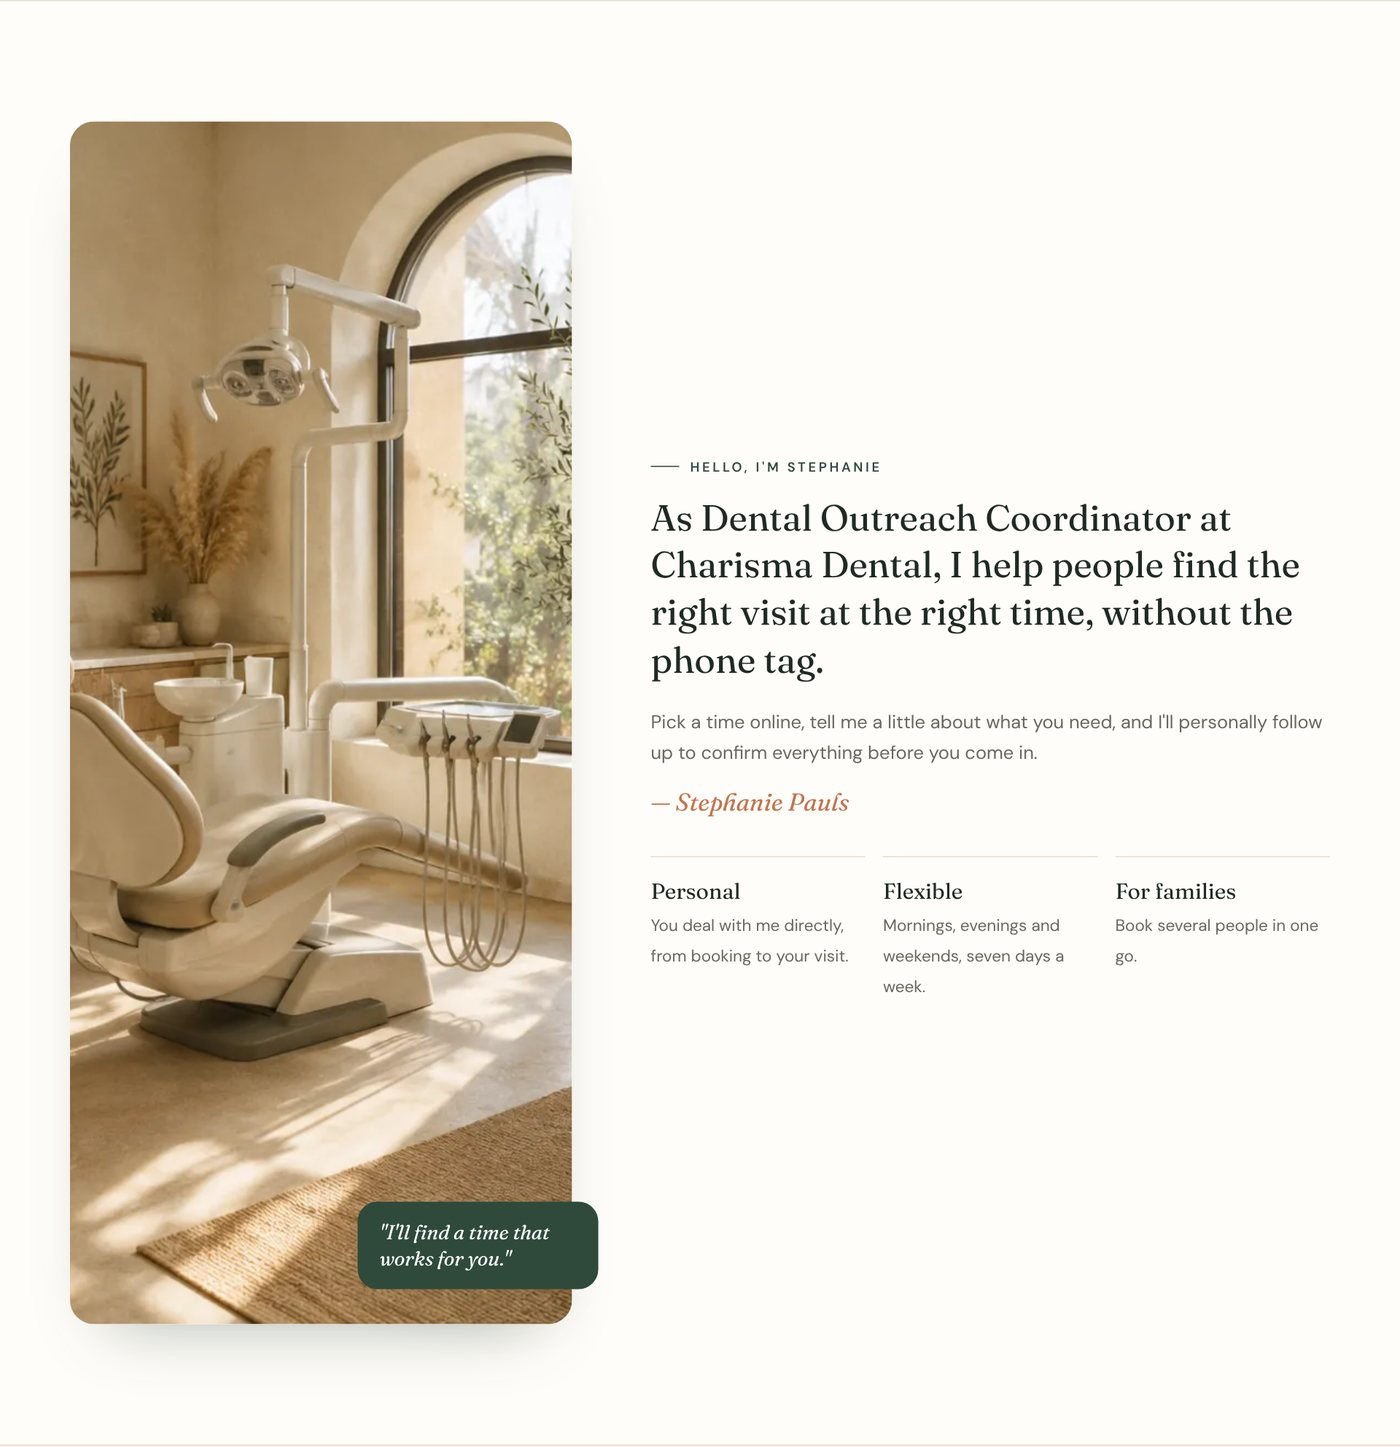
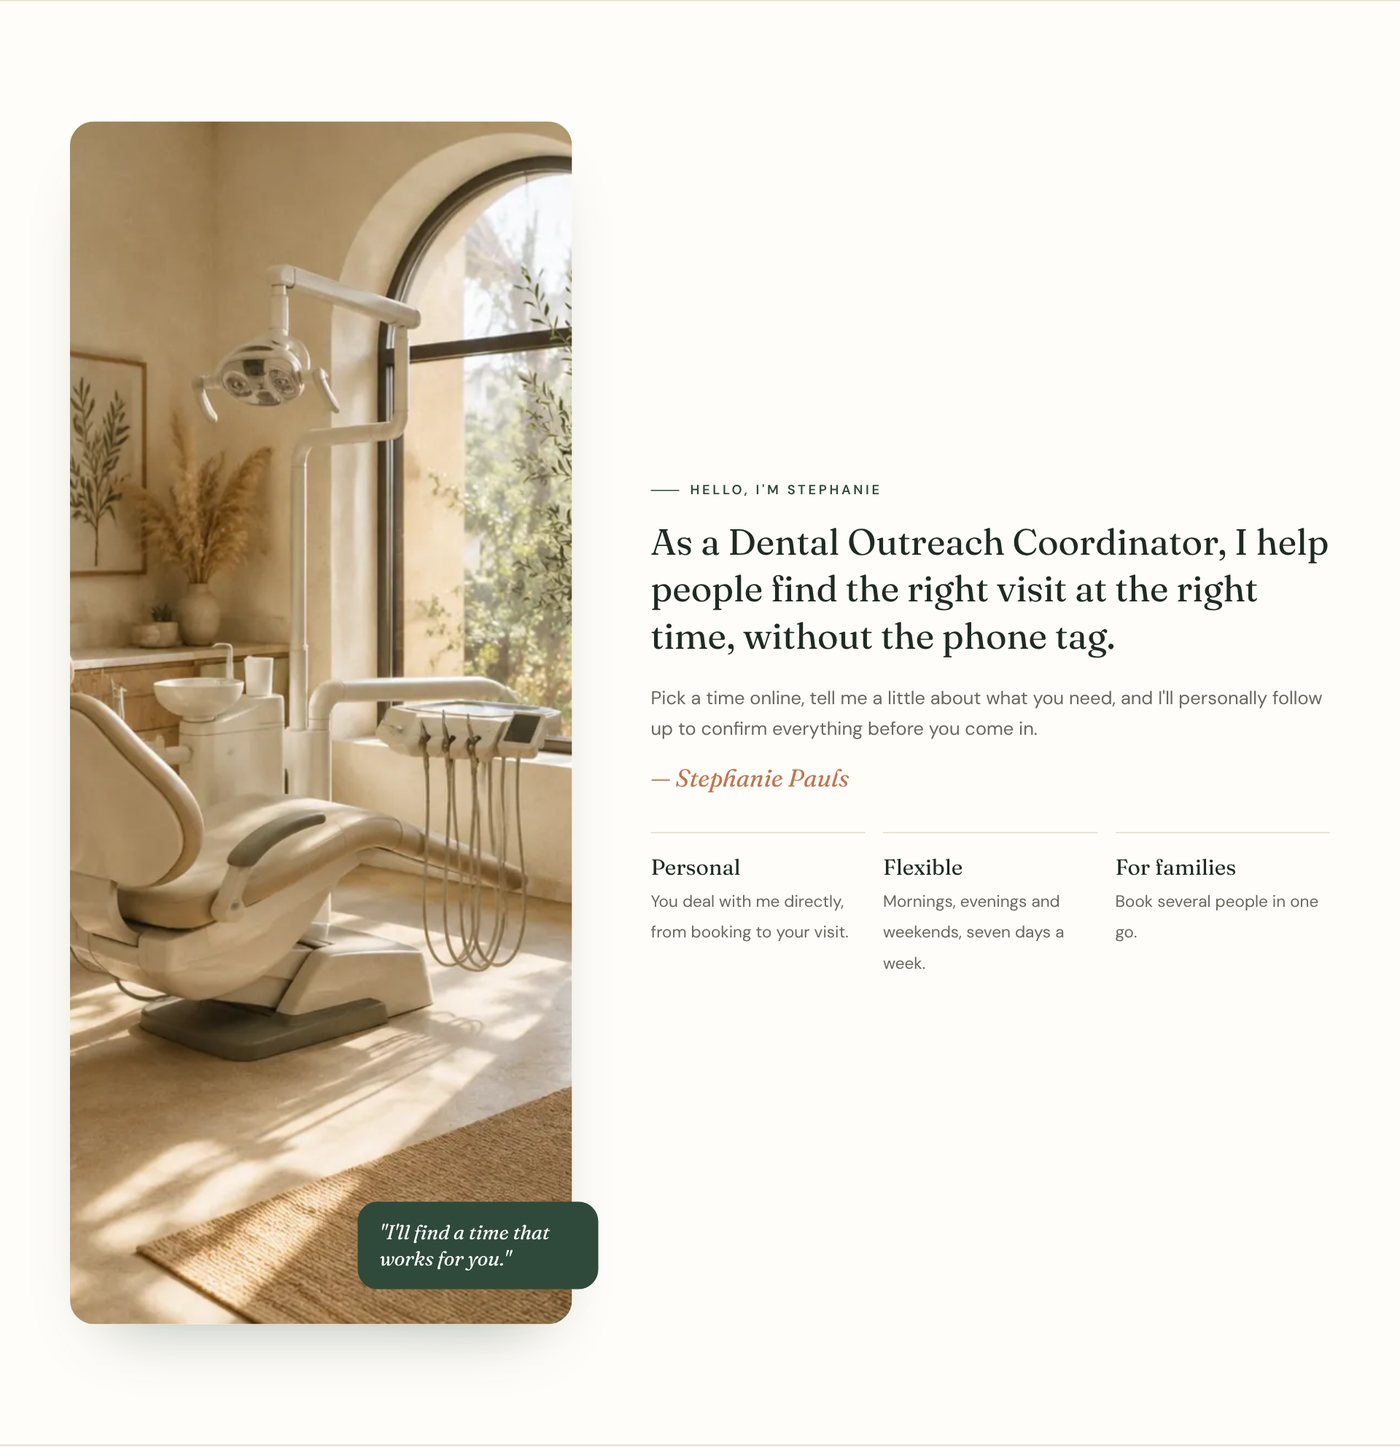
Rebrand as Dental with Stephanie
- Remove the clinic name from the website, dashboard, emails, calendar
  files and code; the brand is now Dental · with Stephanie
- Booking references now start with SP-
- Show a text link instead of the email address on the site
- Refresh README screenshots

Changed region(s): [[0.4607, 0.311, 0.9521, 0.5598], [0.4607, 0.5909, 0.7679, 0.6842], [0.7986, 0.5909, 0.9521, 0.6531]]

diff --git a/public/index.html b/public/index.html
@@ -3,8 +3,8 @@
 <head>
 <meta charset="utf-8">
 <meta name="viewport" content="width=device-width, initial-scale=1, viewport-fit=cover">
-<title>Book with Stephanie · Charisma Dental, Concord</title>
-<meta name="description" content="Book a dental visit at Charisma Dental in Concord. Pick a time that suits you, seven days a week, evenings and weekends. New patients and families welcome.">
+<title>Book with Stephanie · Dental care in Concord</title>
+<meta name="description" content="Book a dental visit in Concord with Stephanie. Pick a time that suits you, seven days a week, evenings and weekends. New patients and families welcome.">
 <meta name="theme-color" content="#2f4a3a">
 <link rel="preconnect" href="https://fonts.googleapis.com">
 <link rel="preconnect" href="https://fonts.gstatic.com" crossorigin>
@@ -24,7 +24,7 @@
 
 <header class="site" id="header">
   <div class="wrap">
-    <a class="brand" href="#top"><strong>Charisma Dental</strong><span>with Stephanie</span></a>
+    <a class="brand" href="#top"><strong>Dental</strong><span>with Stephanie</span></a>
     <nav class="main" aria-label="Main">
       <a href="#services">Services</a>
       <a href="#experience">About</a>
@@ -39,7 +39,7 @@
   <section class="hero">
     <div class="wrap">
       <div class="reveal">
-        <span class="eyebrow">Charisma Dental · Concord</span>
+        <span class="eyebrow">Dental care · Concord</span>
         <h1>A calmer kind of <em>dental visit.</em></h1>
         <p class="lead">Choose a time that suits you, seven days a week, and I'll take care of the rest. Gentle care for you and your family, close to home on Jane Street.</p>
         <div class="actions">
@@ -98,7 +98,7 @@
       </div>
       <div class="reveal">
         <span class="eyebrow">Hello, I'm Stephanie</span>
-        <p class="quote">As Dental Outreach Coordinator at Charisma Dental, I help people find the right visit at the right time, without the phone tag.</p>
+        <p class="quote">As a Dental Outreach Coordinator, I help people find the right visit at the right time, without the phone tag.</p>
         <p class="muted">Pick a time online, tell me a little about what you need, and I'll personally follow up to confirm everything before you come in.</p>
         <p class="sig">— Stephanie Pauls</p>
         <div class="values">
@@ -120,7 +120,7 @@
 
       <div class="booker reveal" id="booker">
         <aside class="recap" aria-label="Your booking so far">
-          <div class="who"><span class="initials" aria-hidden="true">SP</span><span>Booking with Stephanie<br>Charisma Dental</span></div>
+          <div class="who"><span class="initials" aria-hidden="true">SP</span><span>Booking with Stephanie<br>Dental Outreach Coordinator</span></div>
           <h3>Your visit</h3>
           <dl>
             <div><dt>Visit</dt><dd id="rVisit" class="empty">Not chosen yet</dd></div>
@@ -151,7 +151,7 @@
             <p class="err" data-err="service"></p>
             <div class="alert" id="urgent" hidden><strong>In pain right now?</strong> Calling is the fastest way to be seen: <a href="tel:+16476296061">647-629-6061</a>. You can still pick a time online.</div>
             <div class="row">
-              <span class="lbl" id="l-patient">Have you visited Charisma Dental before?</span>
+              <span class="lbl" id="l-patient">Have you visited us before?</span>
               <div class="seg" role="radiogroup" aria-labelledby="l-patient">
                 <label><input type="radio" name="patient" value="New patient" checked>No, I'm new</label>
                 <label><input type="radio" name="patient" value="Returning patient">Yes, I have</label>
@@ -226,7 +226,7 @@
             <p class="muted" id="doneText">I'll be in touch soon to confirm.</p>
             <div class="ticket" id="ticket"></div>
             <div class="actions">
-              <a class="btn btn-dark" id="icsLink" download="charisma-dental-visit.ics" href="#">Add to calendar</a>
+              <a class="btn btn-dark" id="icsLink" download="dental-visit.ics" href="#">Add to calendar</a>
               <a class="btn btn-line" id="gcalLink" target="_blank" rel="noopener" href="#">Google Calendar</a>
             </div>
             <p class="again"><button type="button" class="link plain" id="again">Book another visit</button></p>
@@ -262,7 +262,7 @@
 
   <section class="visit" id="visit">
     <div class="wrap">
-      <div class="map reveal"><iframe title="Map showing Charisma Dental at 9000 Jane Street, Concord" src="https://www.google.com/maps?q=9000+Jane+Street,+Concord,+ON+L4K+0M6&amp;output=embed" loading="lazy" referrerpolicy="no-referrer-when-downgrade"></iframe></div>
+      <div class="map reveal"><iframe title="Map showing 9000 Jane Street, Concord" src="https://www.google.com/maps?q=9000+Jane+Street,+Concord,+ON+L4K+0M6&amp;output=embed" loading="lazy" referrerpolicy="no-referrer-when-downgrade"></iframe></div>
       <div class="info reveal">
         <div><span class="eyebrow">Visit</span><h2>Find us on <em>Jane Street</em></h2></div>
         <div class="block"><b>Address</b><p>9000 Jane Street<br>Concord, ON L4K 0M6</p><p class="dir"><a class="link" href="https://www.google.com/maps/dir/?api=1&amp;destination=9000+Jane+Street+Concord+ON+L4K+0M6" target="_blank" rel="noopener">Get directions</a></p></div>
@@ -272,7 +272,7 @@
             <div data-days="0,6"><span>Saturday – Sunday</span><span>8am – 6pm</span></div>
           </div>
         </div>
-        <div class="block"><b>Contact</b><p><a href="tel:+16476296061">647-629-6061</a></p><p class="mail"><a href="mailto:StephanieCharismaDental@gmail.com">StephanieCharismaDental@gmail.com</a></p></div>
+        <div class="block"><b>Contact</b><p><a href="tel:+16476296061">647-629-6061</a></p><p class="mail"><a href="sms:+16476296061">Send a text</a></p></div>
       </div>
     </div>
   </section>
@@ -300,7 +300,7 @@
       <div><b>Contact</b><a href="tel:+16476296061">647-629-6061</a><br><a href="sms:+16476296061">Send a text</a></div>
       <div><b>Hours</b>Mon – Fri · 9am – 9pm<br>Sat – Sun · 8am – 6pm</div>
     </div>
-    <div class="legal"><span>Stephanie Pauls · Dental Outreach Coordinator · Charisma Dental</span><a href="/admin/">Staff login</a></div>
+    <div class="legal"><span>Stephanie Pauls · Dental Outreach Coordinator</span><a href="/admin/">Staff login</a></div>
   </div>
 </footer>
 

diff --git a/worker/app.js b/worker/app.js
@@ -11,7 +11,7 @@ const RESEND_URL = "https://api.resend.com/emails";
 const MAX_BODY_BYTES = 20_000;
 const MIN_FILL_MS = 4_000;
 const SESSION_DAYS = 14;
-const COOKIE = "cd_admin";
+const COOKIE = "sp_admin";
 
 const SECURITY_HEADERS = {
   "X-Content-Type-Options": "nosniff",
@@ -63,7 +63,7 @@ async function createBooking(request, env, url) {
   const started = Number(data._ts);
   if (data.website || (started && Date.now() - started < MIN_FILL_MS)) {
     console.log(JSON.stringify({ event: "booking_spam" }));
-    return json({ ok: true, booking: { ref: "CD-RECEIVED", date: data.date, time: data.time } });
+    return json({ ok: true, booking: { ref: "SP-RECEIVED", date: data.date, time: data.time } });
   }
 
   const result = await store(env).createBooking(data);
@@ -155,7 +155,7 @@ function cookie(value, maxAge, url) {
 
 // Sessions are signed with the password, so changing the password signs everyone out.
 async function sign(env, text) {
-  const key = await crypto.subtle.importKey("raw", new TextEncoder().encode("cd-session:" + env.ADMIN_PASSWORD), { name: "HMAC", hash: "SHA-256" }, false, ["sign"]);
+  const key = await crypto.subtle.importKey("raw", new TextEncoder().encode("sp-session:" + env.ADMIN_PASSWORD), { name: "HMAC", hash: "SHA-256" }, false, ["sign"]);
   const mac = await crypto.subtle.sign("HMAC", key, new TextEncoder().encode(text));
   return btoa(String.fromCharCode(...new Uint8Array(mac))).replace(/\+/g, "-").replace(/\//g, "_").replace(/=+$/, "");
 }
@@ -235,7 +235,7 @@ function frame({ eyebrow, title, intro, body, accent = "#2f4a3a" }) {
 <table role="presentation" width="100%" cellspacing="0" cellpadding="0" style="background:#f4ede3;padding:28px 12px"><tr><td align="center">
 <table role="presentation" width="100%" cellspacing="0" cellpadding="0" style="max-width:580px;background:#fffdf9;border-radius:22px;overflow:hidden;border:1px solid #e7dccb">
 <tr><td style="padding:22px 28px;border-bottom:1px solid #efe6d8">
-<span style="font:600 13px/1 Georgia,'Times New Roman',serif;letter-spacing:.24em;color:#2f4a3a">CHARISMA DENTAL</span>
+<span style="font:600 13px/1 Georgia,'Times New Roman',serif;letter-spacing:.24em;color:#2f4a3a">DENTAL</span>
 <span style="font:13px/1 Arial,sans-serif;color:#8a7f70"> &nbsp;·&nbsp; with Stephanie</span></td></tr>
 <tr><td style="padding:28px 28px 8px">
 <div style="font:bold 11px/1 Arial,sans-serif;letter-spacing:.18em;text-transform:uppercase;color:${accent};margin-bottom:12px">${eyebrow}</div>
@@ -243,7 +243,7 @@ function frame({ eyebrow, title, intro, body, accent = "#2f4a3a" }) {
 <div style="font:15px/1.6 Arial,sans-serif;color:#5d5a52">${intro}</div></td></tr>
 <tr><td style="padding:12px 28px 28px">${body}</td></tr>
 <tr><td style="padding:18px 28px;background:#f7f1e8;font:12px/1.6 Arial,sans-serif;color:#8a7f70">
-Charisma Dental · 9000 Jane Street, Concord, ON L4K 0M6 · 647-629-6061</td></tr>
+Stephanie Pauls · 9000 Jane Street, Concord, ON L4K 0M6 · 647-629-6061</td></tr>
 </table></td></tr></table></body></html>`;
 }
 
@@ -296,6 +296,6 @@ export function patientEmail(b) {
       detailTable(rows) +
       `<div style="margin-top:18px">${button("tel:+16476296061", "Call 647-629-6061", "#2f4a3a")}${button("https://www.google.com/maps/dir/?api=1&destination=9000+Jane+Street+Concord+ON+L4K+0M6", "Directions", "#efe6d8", "#2f4a3a")}</div>`,
   });
-  const text = `Thank you, ${b.name}. I've saved ${when} for you and will contact you soon to confirm.\n\n${rows.map(([k, v]) => `${k}: ${v}`).join("\n")}\n\nStephanie · Charisma Dental · 647-629-6061`;
+  const text = `Thank you, ${b.name}. I've saved ${when} for you and will contact you soon to confirm.\n\n${rows.map(([k, v]) => `${k}: ${v}`).join("\n")}\n\nStephanie · 647-629-6061`;
   return { subject: `Your visit request: ${when}`, text, html };
 }

diff --git a/public/js/booking.js b/public/js/booking.js
@@ -1,7 +1,7 @@
 // Booking flow: visit → date & time (live availability) → details → confirm → saved.
 (() => {
   const PHONE = '+16476296061';
-  const DRAFT = 'cd-booking-draft';
+  const DRAFT = 'sp-booking-draft';
   const form = document.getElementById('bookForm');
   if (!form) return;
   const $ = id => document.getElementById(id);
@@ -236,9 +236,9 @@
     const endMin = h * 60 + m + slotMinutes;
     const end = state.date.replace(/-/g, '') + 'T' + String(Math.floor(endMin / 60)).padStart(2, '0') + String(endMin % 60).padStart(2, '0') + '00';
     const title = `Dental visit: ${val('service')}`;
-    const where = 'Charisma Dental, 9000 Jane Street, Concord, ON L4K 0M6';
-    const ics = ['BEGIN:VCALENDAR', 'VERSION:2.0', 'PRODID:-//Charisma Dental//Booking//EN', 'BEGIN:VEVENT',
-      `UID:${b.ref}@charisma-booking`, `DTSTAMP:${new Date().toISOString().replace(/[-:]/g, '').slice(0, 15)}Z`,
+    const where = '9000 Jane Street, Concord, ON L4K 0M6';
+    const ics = ['BEGIN:VCALENDAR', 'VERSION:2.0', 'PRODID:-//Dental with Stephanie//Booking//EN', 'BEGIN:VEVENT',
+      `UID:${b.ref}@dental-with-stephanie`, `DTSTAMP:${new Date().toISOString().replace(/[-:]/g, '').slice(0, 15)}Z`,
       `DTSTART;TZID=America/Toronto:${start}`, `DTEND;TZID=America/Toronto:${end}`,
       `SUMMARY:${title}`, `LOCATION:${where.replace(/,/g, '\\,')}`, `DESCRIPTION:Reference ${b.ref}. Questions? Call or text 647-629-6061.`,
       'END:VEVENT', 'END:VCALENDAR'].join('\r\n');

diff --git a/public/admin/index.html b/public/admin/index.html
@@ -4,7 +4,7 @@
 <meta charset="utf-8">
 <meta name="viewport" content="width=device-width, initial-scale=1, viewport-fit=cover">
 <meta name="robots" content="noindex, nofollow">
-<title>Bookings dashboard · Charisma Dental</title>
+<title>Bookings dashboard · Dental with Stephanie</title>
 <meta name="theme-color" content="#2f4a3a">
 <link rel="preconnect" href="https://fonts.googleapis.com">
 <link rel="preconnect" href="https://fonts.gstatic.com" crossorigin>
@@ -17,7 +17,7 @@
 <!-- sign in -->
 <main class="login" id="login" hidden>
   <form class="login-card" id="loginForm">
-    <p class="brand-sm"><strong>Charisma Dental</strong><span>with Stephanie</span></p>
+    <p class="brand-sm"><strong>Dental</strong><span>with Stephanie</span></p>
     <h1>Welcome <em>back.</em></h1>
     <p class="muted">Sign in to see your bookings.</p>
     <div class="field"><label for="pw">Password</label><input type="password" id="pw" autocomplete="current-password" required></div>
@@ -30,7 +30,7 @@
 <!-- dashboard -->
 <div class="dash" id="dash" hidden>
   <header class="dash-top">
-    <p class="brand-sm"><strong>Charisma Dental</strong><span>Bookings</span></p>
+    <p class="brand-sm"><strong>Dental</strong><span>Bookings · with Stephanie</span></p>
     <nav class="tabs" role="tablist">
       <button role="tab" class="on" data-tab="bookings" aria-selected="true">Bookings</button>
       <button role="tab" data-tab="hours" aria-selected="false">Availability</button>

diff --git a/public/js/admin.js b/public/js/admin.js
@@ -71,7 +71,7 @@
     $('sUpcoming').textContent = stats.upcoming ?? 0;
     $('sTotal').textContent = stats.total ?? 0;
     $('refreshed').textContent = `Updated ${new Date().toLocaleTimeString([], { hour: 'numeric', minute: '2-digit' })} · refreshes every minute`;
-    document.title = (stats.newCount ? `(${stats.newCount}) ` : '') + 'Bookings dashboard · Charisma Dental';
+    document.title = (stats.newCount ? `(${stats.newCount}) ` : '') + 'Bookings dashboard · Dental with Stephanie';
     renderList(bookings);
     if (!quiet) window.scrollTo({ top: 0 });
   }

diff --git a/worker/store.js b/worker/store.js
@@ -296,9 +296,9 @@ function shape(r) {
   };
 }
 
-// Short, readable booking reference like "CD-7K3M9Q" (no 0/O/1/I to avoid mix-ups).
+// Short, readable booking reference like "SP-7K3M9Q" (no 0/O/1/I to avoid mix-ups).
 function makeRef() {
   const chars = "ABCDEFGHJKLMNPQRSTUVWXYZ23456789";
   const bytes = crypto.getRandomValues(new Uint8Array(6));
-  return "CD-" + [...bytes].map((b) => chars[b % chars.length]).join("");
+  return "SP-" + [...bytes].map((b) => chars[b % chars.length]).join("");
 }

diff --git a/public/css/site.css b/public/css/site.css
@@ -1,4 +1,4 @@
-/* Charisma Dental · with Stephanie — warm boutique theme */
+/* Dental · with Stephanie — warm boutique theme */
 :root {
   --cream: #f7f1e8; --paper: #fffdf9; --sand: #ece2d3; --sand-d: #ddd0bc;
   --sage: #8aa592; --sage-50: #eef3ee; --sage-100: #dce7de; --forest: #2f4a3a; --forest-d: #22372b;

diff --git a/README.md b/README.md
@@ -1,6 +1,6 @@
 <div align="center">
 
-# Charisma Dental · with Stephanie
+# Dental · with Stephanie
 
 **An online booking site where patients pick a real appointment time, plus a private dashboard to manage every booking.**
 
@@ -377,7 +377,7 @@ When Stephanie takes it over:
 - [ ] Add a real photo of Stephanie for the About section and the booking panel (the "SP" initials are a placeholder).
 - [ ] She creates a free Resend account with her own email. Update `RESEND_API_KEY` and `BOOKING_TO_EMAIL`.
 - [ ] Set a new `ADMIN_PASSWORD` just for her.
-- [ ] Confirm with the clinic that using the Charisma Dental name and address is fine.
+- [ ] Confirm with the clinic that a separate booking page for its address is fine.
 - [ ] Optional: a custom domain such as `bookwithstephanie.ca`, verified in Resend, then set `CONFIRM_PATIENTS=true`.
 
 ---
@@ -413,5 +413,5 @@ When Stephanie takes it over:
 
 <div align="center">
 <br>
-<sub>Charisma Dental · 9000 Jane Street, Concord, ON L4K 0M6 · 647-629-6061</sub>
+<sub>Dental · with Stephanie · 9000 Jane Street, Concord, ON L4K 0M6 · 647-629-6061</sub>
 </div>
